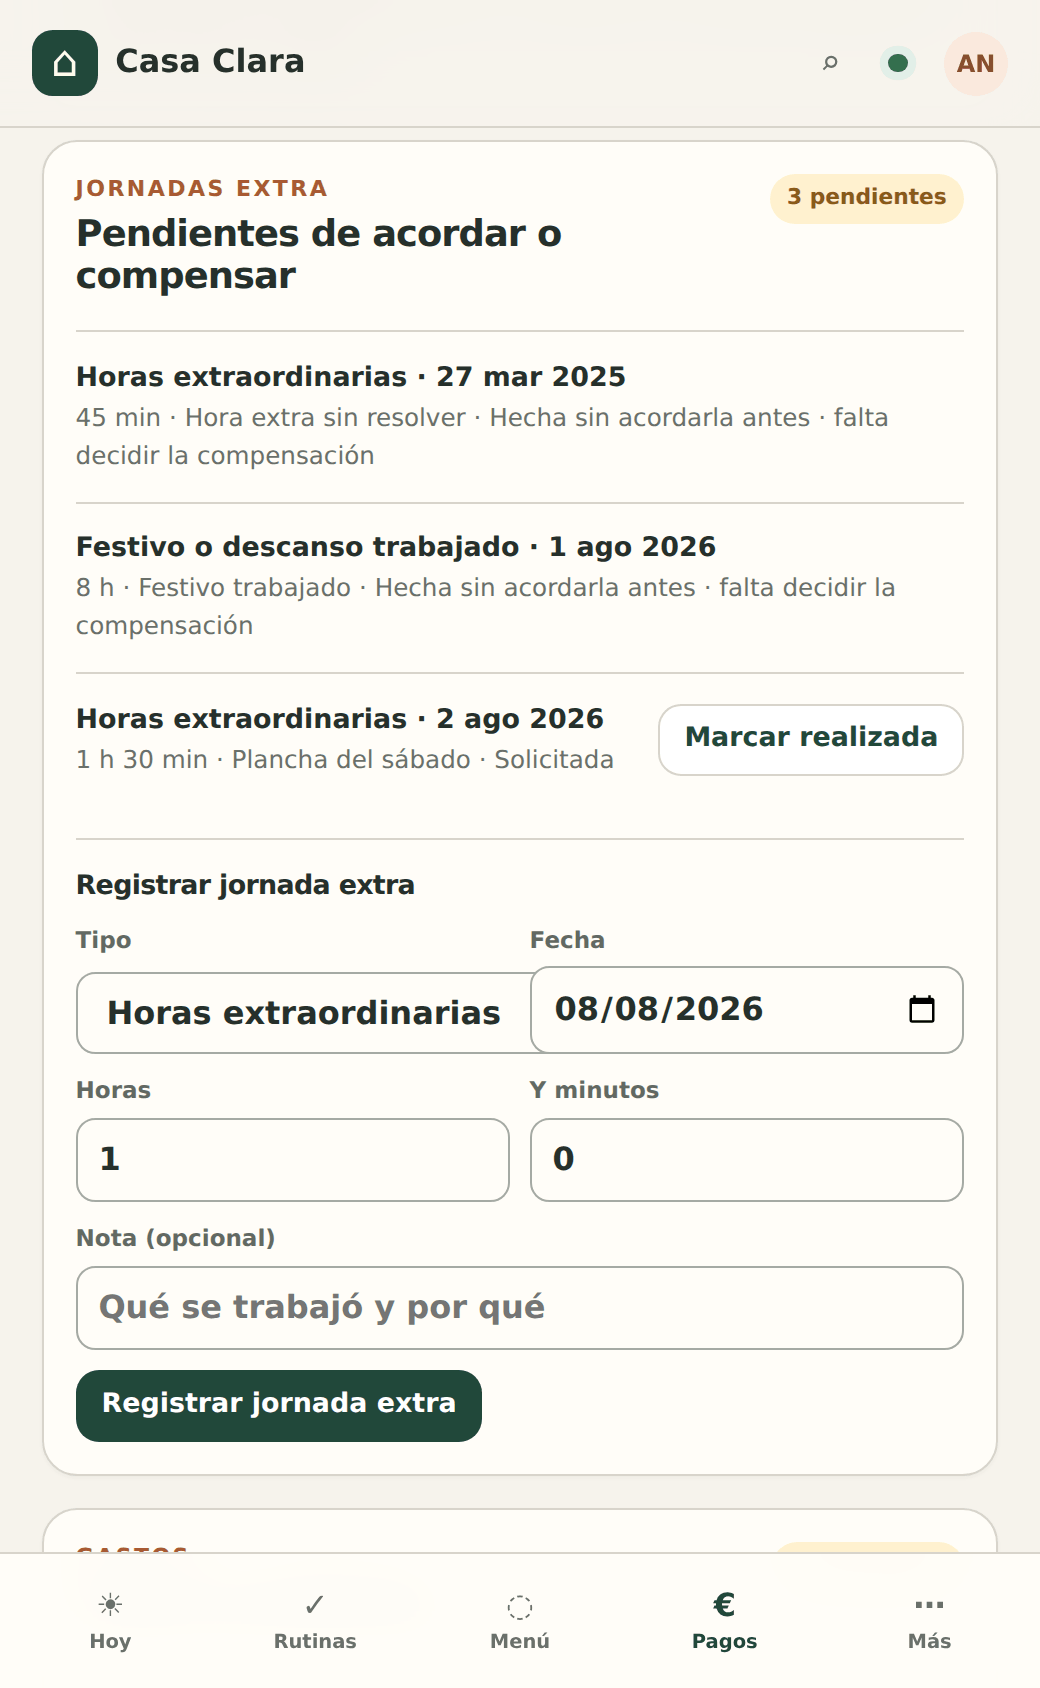
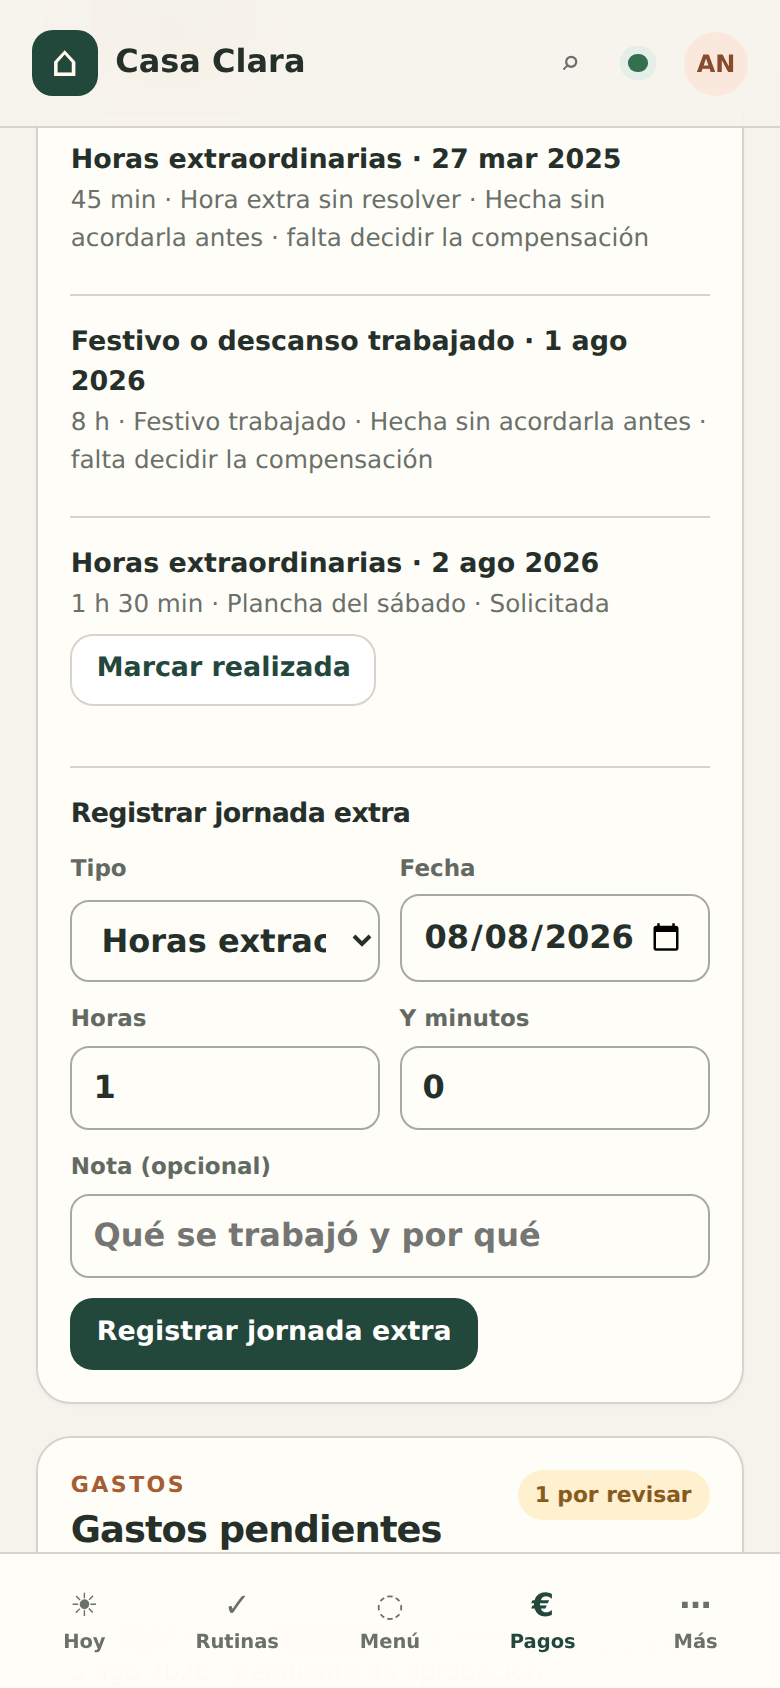
docs(manual): capturas de Pagos en móvil a 390 px
Las dos capturas de la empleada se tomaron a 520 px porque la página
desbordaba; corregido el desbordamiento, se rehacen a la anchura del
resto de capturas móviles.

Claude-Session: https://claude.ai/code/session_016LiwB9q2k5YtJuSaTzAkXv

diff --git a/docs/manual/index.html b/docs/manual/index.html
@@ -1039,7 +1039,7 @@ thead th { border-top: 0; }
     <figure class="captura movil">
       <div class="ventana">
         <div class="ventana-barra"><i></i><i></i><i></i><span>Pagos · días trabajados</span></div>
-        <img src="capturas/interna-parte-movil.png" loading="lazy" width="1040" height="1688"
+        <img src="capturas/interna-parte-movil.png" loading="lazy" width="780" height="1688"
              alt="Tarjeta Días trabajados esta semana en el móvil de Ana: campos Día, Horas, Y minutos y Nota (opcional), los botones Añadir día y Enviar mi semana, la nota de los tres días para confirmarla, y debajo la semana del 10 de marzo de 2025 ya Confirmada.">
       </div>
       <figcaption>Los días de la semana: horas y minutos, una fila por día y un botón para enviarla.</figcaption>
@@ -1074,8 +1074,8 @@ thead th { border-top: 0; }
     <figure class="captura movil">
       <div class="ventana">
         <div class="ventana-barra"><i></i><i></i><i></i><span>Pagos · jornadas extra</span></div>
-        <img src="capturas/interna-jornada-movil.png" loading="lazy" width="1040" height="1688"
-             alt="Tarjeta Pendientes de acordar o compensar en el móvil de Ana con tres jornadas y el botón Marcar realizada, y debajo el formulario Registrar jornada extra con Tipo, Fecha, Horas, Y minutos y Nota (opcional).">
+        <img src="capturas/interna-jornada-movil.png" loading="lazy" width="780" height="1688"
+             alt="Jornadas extra en el móvil de Ana: las tres pendientes de acordar o compensar con el botón Marcar realizada, y debajo el formulario Registrar jornada extra completo, con Tipo, Fecha, Horas, Y minutos, Nota (opcional) y su botón.">
       </div>
       <figcaption>Registrar una jornada extra desde el móvil, en horas y minutos.</figcaption>
     </figure>
